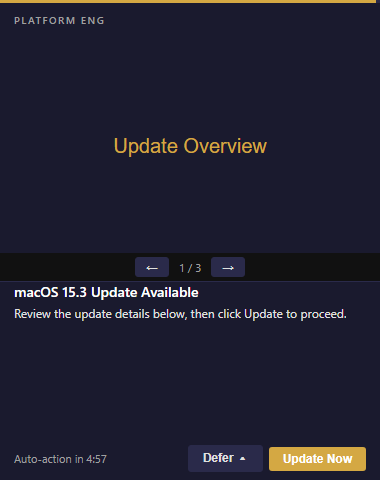
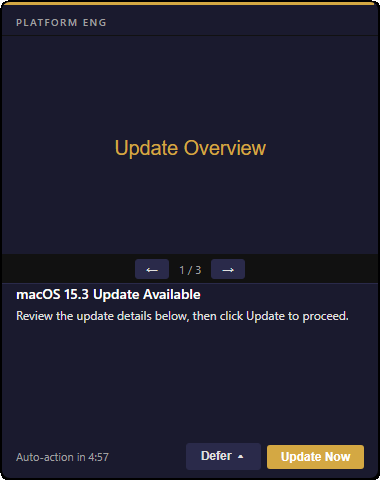
fix: Timeout stuck at 0:01 and add Windows rounded corners (#23)
* docs: Add rounded corners to screenshots and capture script

* fix: Timeout stuck at 0:01 and add Windows rounded corners

Respond() now strips the "timeout:" prefix before validation so the
countdown fires correctly. SetWindowRgn with CreateRoundRectRgn gives
frameless Wails windows rounded corners on Windows.

Ref #22

* fix: Smooth rounded corners via CSS floating card + SetWindowRgn

Replace the jagged GDI-only approach with a layered strategy:
CSS border-radius on a .window-frame wrapper provides smooth
anti-aliased visual corners, a 2px black body margin gives the
radius something to clip against, and SetWindowRgn clips the
outer rectangular window to hide the black corners.

Refresh all notification screenshots with the new corners.

* chore: Update hero screenshot and fix screenshot.ps1 output path

Replace stale assets/hero.png with freshly captured version.
Remove duplicate testdata/hero.png, update screenshot.ps1 to
write hero directly to assets/hero.png.

---------

Changed region(s): [[0.0, 0.5312, 1.0, 1.0], [0.0, 0.0, 1.0, 0.5312], [0.2895, 0.2812, 0.6947, 0.3438]]

diff --git a/frontend/style.css b/frontend/style.css
@@ -18,11 +18,19 @@ html, body {
   height: 100%;
   overflow: hidden;
   font-family: "Segoe UI", -apple-system, BlinkMacSystemFont, sans-serif;
-  background: var(--bg);
+  background: #000;
   color: var(--text);
   user-select: none;
   -webkit-user-select: none;
   font-size: 13px;
+}
+
+.window-frame {
+  position: absolute;
+  inset: 2px;
+  border-radius: 8px;
+  overflow: hidden;
+  background: var(--bg);
 }
 
 .accent {

diff --git a/frontend/index.html b/frontend/index.html
@@ -7,6 +7,7 @@
   <title>Hermes</title>
 </head>
 <body>
+<div class="window-frame">
   <div class="accent bar-track"><span class="bar-fill" id="bar-fill"></span></div>
   <div class="container">
     <div class="header">
@@ -33,6 +34,7 @@
       <div id="buttons" class="button-group"></div>
     </div>
   </div>
+</div>
   <script src="main.js"></script>
 </body>
 </html>

diff --git a/internal/app/corners_windows.go b/internal/app/corners_windows.go
@@ -1,0 +1,55 @@
+//go:build windows
+
+package app
+
+import (
+	"syscall"
+	"unsafe"
+
+	"github.com/google/deck"
+	"golang.org/x/sys/windows"
+)
+
+var (
+	modGdi32               = windows.NewLazySystemDLL("gdi32.dll")
+	procCreateRoundRectRgn = modGdi32.NewProc("CreateRoundRectRgn")
+
+	modUser32         = windows.NewLazySystemDLL("user32.dll")
+	procFindWindowW   = modUser32.NewProc("FindWindowW")
+	procSetWindowRgn  = modUser32.NewProc("SetWindowRgn")
+	procGetWindowRect = modUser32.NewProc("GetWindowRect")
+)
+
+const cornerEllipse = 20
+
+func applyRoundedCorners(title string) {
+	titlePtr, err := syscall.UTF16PtrFromString(title)
+	if err != nil {
+		return
+	}
+
+	hwnd, _, _ := procFindWindowW.Call(0, uintptr(unsafe.Pointer(titlePtr)))
+	if hwnd == 0 {
+		deck.Warningf("rounded corners: FindWindowW(%q) returned 0", title)
+		return
+	}
+
+	var r struct{ Left, Top, Right, Bottom int32 }
+	ret, _, _ := procGetWindowRect.Call(hwnd, uintptr(unsafe.Pointer(&r)))
+	if ret == 0 {
+		return
+	}
+
+	w := uintptr(r.Right - r.Left)
+	h := uintptr(r.Bottom - r.Top)
+
+	hrgn, _, _ := procCreateRoundRectRgn.Call(0, 0, w+1, h+1, cornerEllipse, cornerEllipse)
+	if hrgn == 0 {
+		return
+	}
+
+	ok, _, _ := procSetWindowRgn.Call(hwnd, hrgn, 1)
+	if ok == 0 {
+		deck.Warningf("rounded corners: SetWindowRgn failed")
+	}
+}

diff --git a/internal/app/app_test.go b/internal/app/app_test.go
@@ -2,6 +2,7 @@ package app
 
 import (
 	"context"
+	"strings"
 	"testing"
 
 	"github.com/TsekNet/hermes/internal/config"
@@ -99,6 +100,36 @@ func TestShutdown_Idempotent(t *testing.T) {
 	a := New(&config.NotificationConfig{Heading: "H", Message: "M"})
 	a.Shutdown(context.Background())
 	a.Shutdown(context.Background())
+}
+
+func TestRespondAcceptsTimeoutPrefix(t *testing.T) {
+	t.Parallel()
+	cfg := &config.NotificationConfig{
+		Heading:      "H",
+		Message:      "M",
+		TimeoutValue: "restart",
+	}
+	cfg.ApplyDefaults()
+
+	tests := []struct {
+		name string
+		value string
+		want bool
+	}{
+		{"raw value", "restart", true},
+		{"timeout prefixed", "timeout:restart", true},
+		{"unknown raw", "nope", false},
+		{"timeout unknown", "timeout:nope", false},
+	}
+	for _, tt := range tests {
+		t.Run(tt.name, func(t *testing.T) {
+			t.Parallel()
+			check := strings.TrimPrefix(tt.value, "timeout:")
+			if got := cfg.HasValue(check); got != tt.want {
+				t.Errorf("HasValue(TrimPrefix(%q)) = %v, want %v", tt.value, got, tt.want)
+			}
+		})
+	}
 }
 
 func TestHeight(t *testing.T) {

diff --git a/cmd/root.go b/cmd/root.go
@@ -370,17 +370,17 @@ func runUI(cfg *config.NotificationConfig) {
 	wv2Path := webview2DataPath()
 
 	err := wails.Run(&options.App{
-		Title:         cfg.Title,
-		Width:         app.WindowWidth,
-		Height:        app.Height(cfg),
-		Frameless:     true,
-		AlwaysOnTop:   true,
-		DisableResize: true,
-		StartHidden:   true,
-		AssetServer:   &assetserver.Options{Assets: frontendAssets},
-		OnStartup:     a.Startup,
-		OnShutdown:    a.Shutdown,
-		Bind:          []interface{}{a},
+		Title:            cfg.Title,
+		Width:            app.WindowWidth,
+		Height:           app.Height(cfg),
+		Frameless:        true,
+		AlwaysOnTop:      true,
+		DisableResize:    true,
+		StartHidden:      true,
+		AssetServer:      &assetserver.Options{Assets: frontendAssets},
+		OnStartup:        a.Startup,
+		OnShutdown:       a.Shutdown,
+		Bind:             []interface{}{a},
 		Windows: &wopts.Options{
 			IsZoomControlEnabled: false,
 			WebviewUserDataPath:  wv2Path,

diff --git a/internal/app/app.go b/internal/app/app.go
@@ -4,6 +4,7 @@ package app
 import (
 	"context"
 	goRuntime "runtime"
+	"strings"
 	"time"
 
 	"github.com/TsekNet/hermes/internal/config"
@@ -124,11 +125,13 @@ func (a *App) Ready() {
 	deck.Infof("positioning: workarea≈%dx%d window=%dx%d center=(%d,%d) -> (%d,%d)", waW, waH, w, h, cx, cy, x, y)
 	wailsRuntime.WindowSetPosition(a.ctx, x, y)
 	wailsRuntime.WindowShow(a.ctx)
+	applyRoundedCorners(a.cfg.Title)
 }
 
 // Respond handles the user's choice. Opens URIs, runs builtins, sends gRPC, quits.
 func (a *App) Respond(value string) {
-	if !a.cfg.HasValue(value) && !action.IsURI(value) && !action.IsBuiltin(value) {
+	check := strings.TrimPrefix(value, "timeout:")
+	if !a.cfg.HasValue(check) && !action.IsURI(value) && !action.IsBuiltin(value) {
 		deck.Warningf("respond: rejected unknown value %q", value)
 		return
 	}

diff --git a/internal/app/corners_other.go b/internal/app/corners_other.go
@@ -1,0 +1,5 @@
+//go:build !windows
+
+package app
+
+func applyRoundedCorners(_ string) {}
